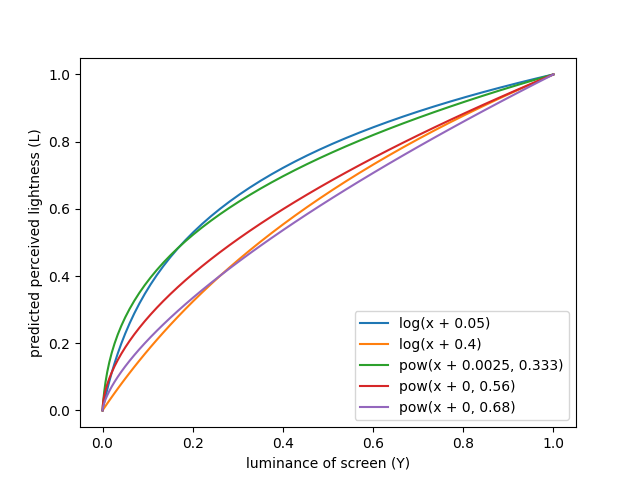
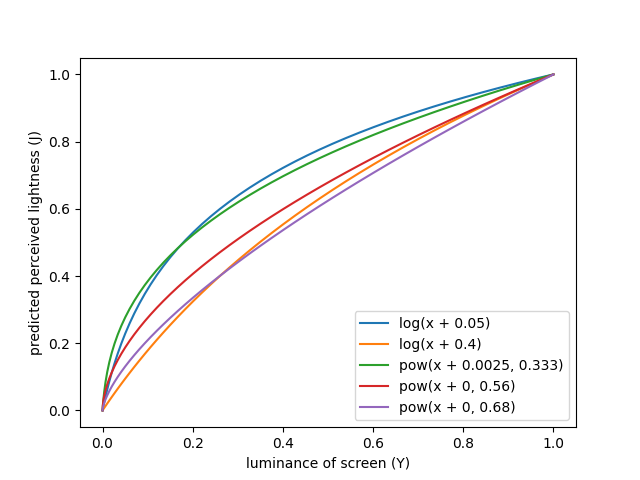
use J for lightness
L is usually used for absolute luminance

Changed region(s): [[0.0312, 0.25, 0.0625, 0.75]]

diff --git a/plots/contrast_comparison.py b/plots/contrast_comparison.py
@@ -12,8 +12,8 @@ def wcag_l(y, flare=0.05):
 	return np.log(y / flare + 1) / np.log(1 / flare + 1)
 
 
-def wcag_contrast(lfg, lbg):
-	return lbg - lfg
+def wcag_contrast(jfg, jbg):
+	return jbg - jfg
 
 
 def apca_y(color):
@@ -28,10 +28,10 @@ def apca_l(y):
 	return y ** 0.6
 
 
-def apca_contrast(lfg, lbg):
-	_lfg = lfg ** (np.where(lbg > lfg, 0.57, 0.62) / 0.6)
-	_lbg = lbg ** (np.where(lbg > lfg, 0.56, 0.65) / 0.6)
-	return _lbg - _lfg
+def apca_contrast(jfg, jbg):
+	_jfg = jfg ** (np.where(jbg > jfg, 0.57, 0.62) / 0.6)
+	_jbg = jbg ** (np.where(jbg > jfg, 0.56, 0.65) / 0.6)
+	return _jbg - _jfg
 
 
 if __name__ == '__main__':
@@ -48,13 +48,13 @@ if __name__ == '__main__':
 
 	apca_yfg = apca_y(fg)
 	apca_ybg = apca_y(bg)
-	apca_lfg = apca_l(apca_yfg)
-	apca_lbg = apca_l(apca_ybg)
-	apca = apca_contrast(apca_lfg, apca_lbg)
+	apca_jfg = apca_l(apca_yfg)
+	apca_jbg = apca_l(apca_ybg)
+	apca = apca_contrast(apca_jfg, apca_jbg)
 
 	for a, b, y, l, contrast, title in [
 		(0, 0, wcag_y, apca_l, apca_contrast, 'sRGBtoY'),
-		(0, 1, apca_y, wcag_l, apca_contrast, 'YtoL'),
+		(0, 1, apca_y, wcag_l, apca_contrast, 'YtoJ'),
 		(1, 0, apca_y, apca_l, wcag_contrast, 'contrast'),
 		(1, 1, wcag_y, wcag_l, wcag_contrast, 'all'),
 	]:

diff --git a/plots/coverage.py b/plots/coverage.py
@@ -32,9 +32,9 @@ def apca_y(color):
 
 
 def apca_contrast(yfg, ybg):
-	lfg = yfg ** np.where(ybg > yfg, 0.57, 0.62)
-	lbg = ybg ** np.where(ybg > yfg, 0.56, 0.65)
-	c = (lbg - lfg) * 1.14
+	jfg = yfg ** np.where(ybg > yfg, 0.57, 0.62)
+	jbg = ybg ** np.where(ybg > yfg, 0.56, 0.65)
+	c = (jbg - jfg) * 1.14
 	c = np.where(np.abs(c) < 0.1, 0, np.where(c > 0, c - 0.027, c + 0.027))
 	return np.abs(c) * 100
 

diff --git a/plots/lightness_comparison.py b/plots/lightness_comparison.py
@@ -8,7 +8,7 @@ def norm(x, f):
 
 if __name__ == '__main__':
 	plt.xlabel('luminance of screen (Y)')
-	plt.ylabel('predicted perceived lightness (L)')
+	plt.ylabel('predicted perceived lightness (J)')
 
 	x = np.linspace(0, 1) ** 2
 	legend = []

diff --git a/analysis.md b/analysis.md
@@ -53,15 +53,15 @@ correct 100% of the time.
 ### A naive approach
 
 ```js
-function sRGBtoL(srgb) {
+function sRGBtoJ(srgb) {
   return (srgb[0] + srgb[1] + srgb[2]) / 3;
 }
 
 function contrast(fg, bg) {
-  var lfg = sRGBtoL(fg);
-  var lbg = sRGBtoL(bg);
+  var jfg = sRGBtoJ(fg);
+  var jbg = sRGBtoJ(bg);
 
-  return lbg - lfg;
+  return jbg - jfg;
 };
 ```
 
@@ -73,7 +73,7 @@ values.
 
 ### Historical context
 
-Lightness (L) is a measure for the perceived amount of light. Luminance (Y) is
+Lightness (J) is a measure for the perceived amount of light. Luminance (Y) is
 a measure for the physical amount of light. In order to understand perceived
 contrast, we first have to understand the relationship between luminance and
 lightness.
@@ -86,11 +86,11 @@ Y2` has the same value. This is known as Weber contrast and has been called the
 ["gold standard" for text contrast].
 
 Fechner concluded that the relation between a physical measure `Y` and a
-perceived measure `L` can be expressed as `L = a * log(Y) + b`. This is called
+perceived measure `J` can be expressed as `J = a * log(Y) + b`. This is called
 the Weber-Fechner law.
 
 In 1961 Stevens published a different model that was found to more accurately
-predict human vision. It has the form `L = a * pow(Y, alpha) + b`. The exponent
+predict human vision. It has the form `J = a * pow(Y, alpha) + b`. The exponent
 `alpha` has a value of approximately 1/3.[^1]
 
 ### WCAG 2.x
@@ -236,7 +236,7 @@ function sRGBtoY(srgb) {
   return 0.2126 * r + 0.7152 * g + 0.0722 * b;
 }
 
-function YtoL(y) {
+function YtoJ(y) {
   return (Math.log(y + 0.05) - Math.log(0.05)) / Math.log(21);
 }
 
@@ -244,10 +244,10 @@ function contrast(fg, bg) {
   var yfg = sRGBtoY(fg);
   var ybg = sRGBtoY(bg);
 
-  var lfg = YtoL(yfg);
-  var lbg = YtoL(ybg);
+  var jfg = YtoJ(yfg);
+  var jbg = YtoJ(ybg);
 
-  return lbg - lfg;
+  return jbg - jfg;
 };
 
 function normalize(c) {
@@ -270,7 +270,7 @@ function sRGBtoY(srgb) {
   return y;
 }
 
-function YtoL(y) {
+function YtoJ(y) {
     return Math.pow(y, 0.6);
 }
 
@@ -278,13 +278,13 @@ function contrast(fg, bg) {
   var yfg = sRGBtoY(fg);
   var ybg = sRGBtoY(bg);
 
-  var lfg = YtoL(yfg);
-  var lbg = YtoL(ybg);
+  var jfg = YtoJ(yfg);
+  var jbg = YtoJ(ybg);
 
   if (ybg > yfg) {
-    return Math.pow(lbg, 0.56 / 0.6) - Math.pow(lfg, 0.57 / 0.6);
+    return Math.pow(jbg, 0.56 / 0.6) - Math.pow(jfg, 0.57 / 0.6);
   } else {
-    return Math.pow(ybg, 0.65 / 0.6) - Math.pow(lfg, 0.62 / 0.6);
+    return Math.pow(jbg, 0.65 / 0.6) - Math.pow(jfg, 0.62 / 0.6);
   }
 };
 
@@ -313,7 +313,7 @@ The difference goes up to 20%.
 
 The other three plots compare APCA to a modified version of APCA where one of
 the steps has been replaced by the corresponding step from WCAG 2.x. This way
-we can see that `sRGBtoY` contributes 4% to the difference, `YtoL` contributes
+we can see that `sRGBtoY` contributes 4% to the difference, `YtoJ` contributes
 15%, and `contrast` contributes 3%.
 
 Since the conversion from luminance to lightness causes the biggest difference,
